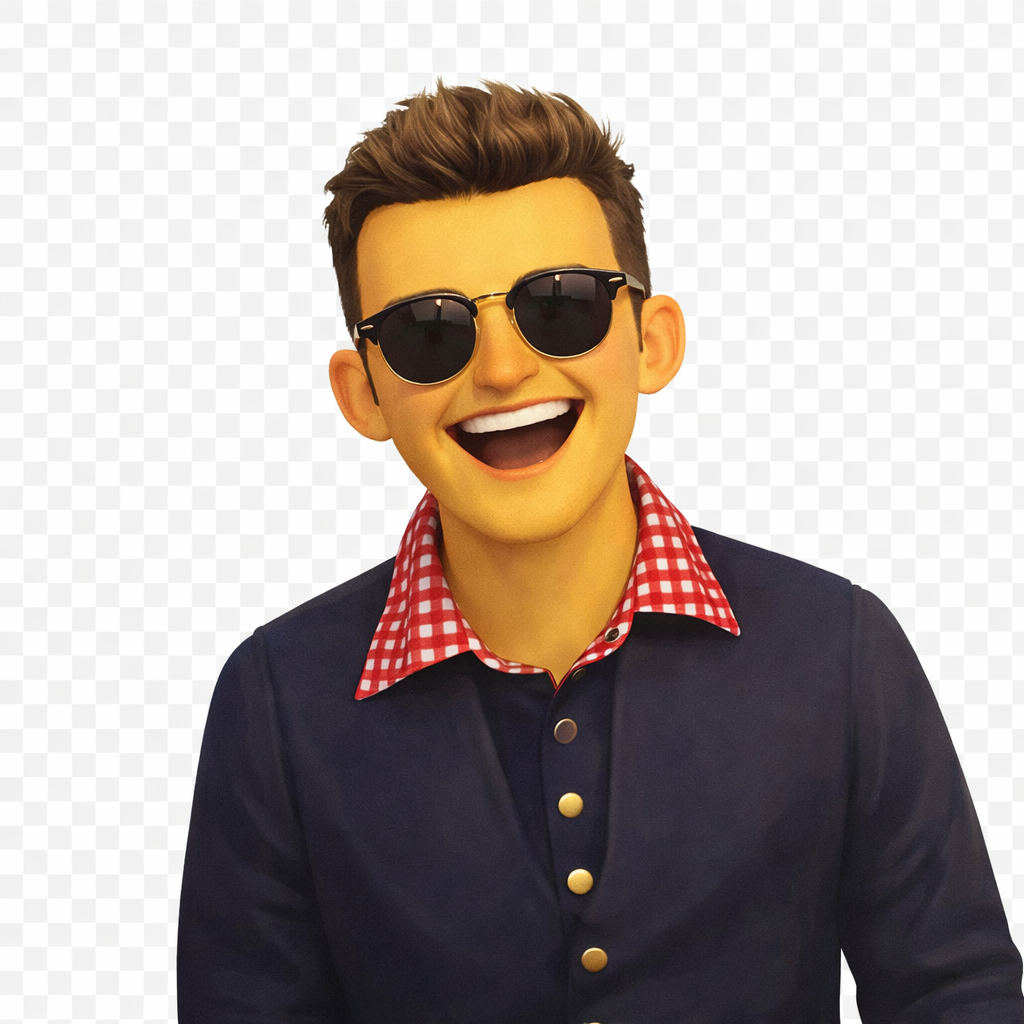
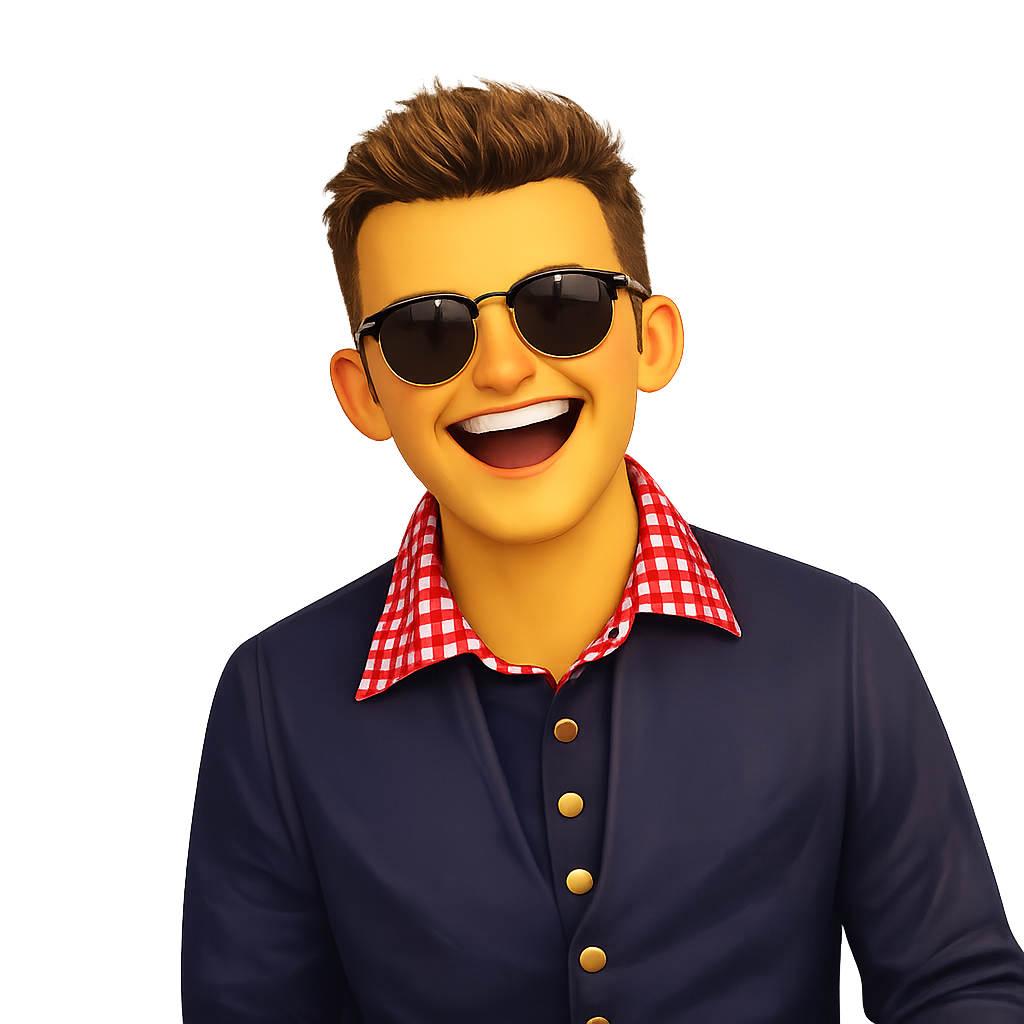
Updated scroll

diff --git a/src/components/UserSessionModal.vue b/src/components/UserSessionModal.vue
@@ -16,46 +16,50 @@ onMounted(() => {
   <Teleport to="body">
     <div
       v-if="showModal"
-      class="fixed inset-0 z-50 flex items-center justify-center bg-slate-950/80 px-4 backdrop-blur-sm"
+      class="fixed inset-0 z-50 flex items-end justify-center bg-slate-950/80 px-3 py-3 backdrop-blur-sm sm:items-center sm:px-4 sm:py-6"
     >
       <div
-        class="w-full max-w-md rounded-3xl border border-white/10 bg-slate-900 p-6 shadow-2xl shadow-black/40"
+        class="flex max-h-[92vh] w-full max-w-md flex-col overflow-hidden rounded-3xl border border-white/10 bg-slate-900 shadow-2xl shadow-black/40"
       >
-        <p class="text-sm uppercase tracking-[0.24em] text-cyan-300">Slope Senders</p>
-        <h2 class="mt-3 text-3xl font-semibold text-white">Who are you riding as?</h2>
-        <p class="mt-3 text-sm leading-6 text-slate-300">
-          Pick your name for this session. Once selected, that rider stays locked for this device.
-        </p>
-
-        <div v-if="sessionUser.loading" class="mt-6 text-sm text-slate-300">Loading crew...</div>
-
-        <div v-else-if="sessionUser.error" class="mt-6 rounded-2xl border border-rose-400/30 bg-rose-400/10 p-4 text-sm text-rose-100">
-          {{ sessionUser.error }}
+        <div class="border-b border-white/10 px-5 pb-4 pt-5 sm:px-6 sm:pb-5 sm:pt-6">
+          <p class="text-sm uppercase tracking-[0.24em] text-cyan-300">Slope Senders</p>
+          <h2 class="mt-3 text-2xl font-semibold text-white sm:text-3xl">Who are you riding as?</h2>
+          <p class="mt-3 text-sm leading-6 text-slate-300">
+            Pick your name for this session. Once selected, that rider stays locked for this device.
+          </p>
         </div>
 
-        <div v-else class="mt-6 grid gap-3">
-          <button
-            v-for="user in sessionUser.users"
-            :key="user.id"
-            type="button"
-            class="flex items-center gap-3 rounded-2xl border border-white/10 bg-white/5 px-4 py-3 text-left text-white transition hover:border-cyan-300/70 hover:bg-cyan-300/10"
-            @click="sessionUser.selectUser(user.id)"
+        <div class="overflow-y-auto px-5 py-5 sm:px-6 sm:py-6">
+          <div v-if="sessionUser.loading" class="text-sm text-slate-300">Loading crew...</div>
+
+          <div v-else-if="sessionUser.error" class="rounded-2xl border border-rose-400/30 bg-rose-400/10 p-4 text-sm text-rose-100">
+            {{ sessionUser.error }}
+          </div>
+
+          <div v-else class="grid gap-3">
+            <button
+              v-for="user in sessionUser.users"
+              :key="user.id"
+              type="button"
+              class="flex items-center gap-3 rounded-2xl border border-white/10 bg-white/5 px-4 py-3 text-left text-white transition hover:border-cyan-300/70 hover:bg-cyan-300/10"
+              @click="sessionUser.selectUser(user.id)"
+            >
+              <img
+                :src="getProfilePicUrl(user.name)"
+                :alt="user.name"
+                class="h-12 w-12 rounded-2xl object-cover ring-1 ring-white/10"
+              />
+              <span>{{ user.name }}</span>
+            </button>
+          </div>
+
+          <p
+            v-if="!sessionUser.loading && !sessionUser.error && sessionUser.users.length === 0"
+            class="text-sm text-amber-300"
           >
-            <img
-              :src="getProfilePicUrl(user.name)"
-              :alt="user.name"
-              class="h-12 w-12 rounded-2xl object-cover ring-1 ring-white/10"
-            />
-            <span>{{ user.name }}</span>
-          </button>
+            No users found yet. Add rows to the new `users` table first.
+          </p>
         </div>
-
-        <p
-          v-if="!sessionUser.loading && !sessionUser.error && sessionUser.users.length === 0"
-          class="mt-6 text-sm text-amber-300"
-        >
-          No users found yet. Add rows to the new `users` table first.
-        </p>
       </div>
     </div>
   </Teleport>

diff --git a/dist/index.html b/dist/index.html
@@ -5,7 +5,7 @@
     <link rel="icon" href="/logo.png" />
     <meta name="viewport" content="width=device-width, initial-scale=1.0" />
     <title>Slope Senders</title>
-    <script type="module" crossorigin src="/assets/index-B4D8FM4V.js"></script>
+    <script type="module" crossorigin src="/assets/index-pxltC2Y4.js"></script>
     <link rel="stylesheet" crossorigin href="/assets/index-Dq5BGfvg.css">
   </head>
   <body>
